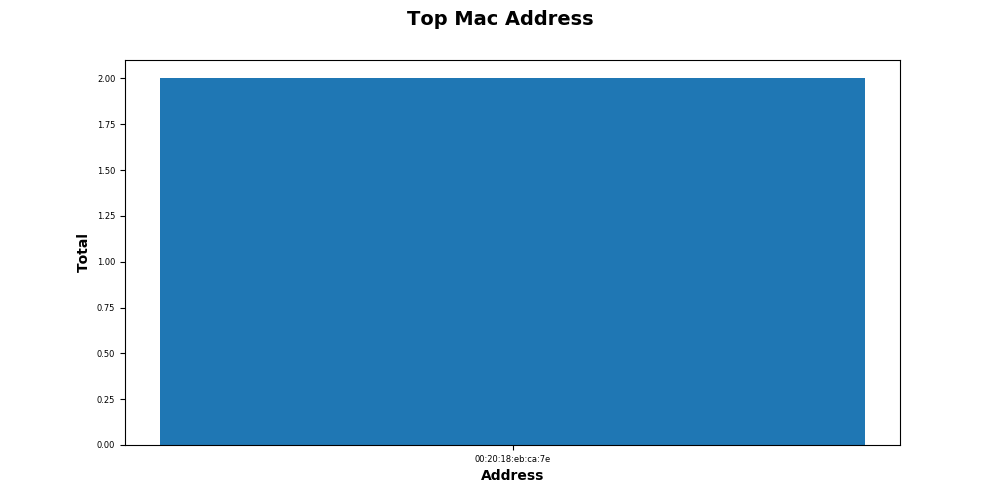
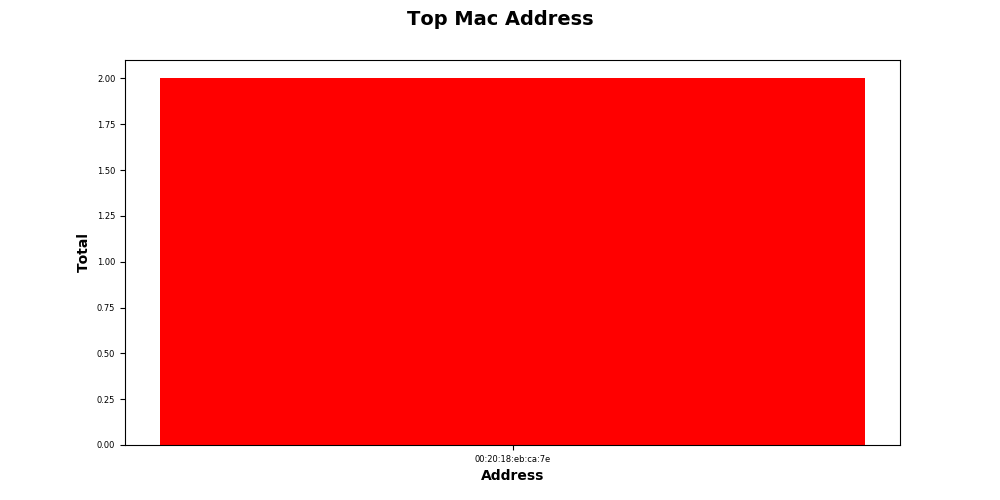
Cleaned up graphs

diff --git a/weird_parser.py b/weird_parser.py
@@ -59,8 +59,8 @@ def show_weird_messages():
             yVals.append(value)             # The y value gets added
 
     plt.bar(xVals, yVals, color='green')    # The figure is plotted
-    plt.suptitle('Top Destination Ports', fontsize=14, fontweight='bold')    # Title is set
-    plt.xlabel('Destination Ports', fontsize=10, fontweight='bold')             # X axis titles
+    plt.suptitle('Top Weird Messages', fontsize=14, fontweight='bold')    # Title is set
+    plt.xlabel('Top Weird Messages', fontsize=10, fontweight='bold')             # X axis titles
     plt.ylabel('Total', fontsize=10, fontweight='bold')                         # Y axis titles
     dportfig = plt.gcf()                                                        # Figure is formatted
     dportfig.set_size_inches(10, 5)                                             # Figure is sized
@@ -87,7 +87,7 @@ def show_destination_port():
             xVals.append(key)               # The x value gets added
             yVals.append(value)             # The y value gets added
 
-    plt.bar(xVals, yVals, color='green')    # The figure is plotted
+    plt.bar(xVals, yVals, color='orange')   # The figure is plotted
     plt.suptitle('Top Destination Ports', fontsize=14, fontweight='bold')    # Title is set
     plt.xlabel('Destination Ports', fontsize=10, fontweight='bold')             # X axis titles
     plt.ylabel('Total', fontsize=10, fontweight='bold')                         # Y axis titles
@@ -119,8 +119,8 @@ def show_destination_ip():
             xVals.append(key)               # The x value gets added
             yVals.append(value)             # The y value gets added
 
-    plt.bar(xVals, yVals)                   # The figure is plotted
-    plt.suptitle('Top Notices', fontsize=14, fontweight='bold')      # Title is set
+    plt.bar(xVals, yVals, color='purple')                                       # The figure is plotted
+    plt.suptitle('Top Notices', fontsize=14, fontweight='bold')                 # Title is set
     plt.xlabel('IPs', fontsize=10, fontweight='bold')                           # X axis titles
     plt.ylabel('Total', fontsize=10, fontweight='bold')                         # Y axis titles
     dportfig = plt.gcf()                                                        # Figure is formatted

diff --git a/dhcp_parser.py b/dhcp_parser.py
@@ -154,7 +154,7 @@ def show_vendor():
             xVals.append(key)               # The x value gets added
             yVals.append(value)             # The y value gets added
 
-    plt.bar(xVals, yVals)                   # The figure is plotted
+    plt.bar(xVals, yVals, color='purple')   # The figure is plotted
     plt.suptitle('Top Mac Vendors', fontsize=14, fontweight='bold')      # Title is set
     plt.xlabel('Vendors', fontsize=10, fontweight='bold')                           # X axis titles
     plt.ylabel('Total', fontsize=10, fontweight='bold')                         # Y axis titles
@@ -186,7 +186,7 @@ def show_mac_addresses():
             xVals.append(key)               # The x value gets added
             yVals.append(value)             # The y value gets added
 
-    plt.bar(xVals, yVals)                   # The figure is plotted
+    plt.bar(xVals, yVals, color='red')   # The figure is plotted
     plt.suptitle('Top Mac Address', fontsize=14, fontweight='bold')      # Title is set
     plt.xlabel('Address', fontsize=10, fontweight='bold')                           # X axis titles
     plt.ylabel('Total', fontsize=10, fontweight='bold')                         # Y axis titles
